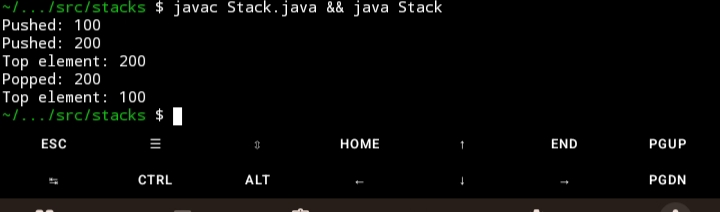
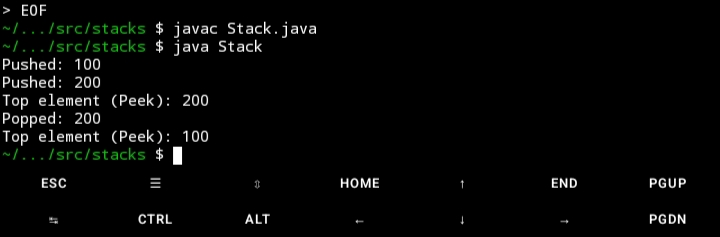
Day 3: Replace with final Stack execution proof (Push, Pop, Peek)

diff --git a/README.md b/README.md
@@ -11,7 +11,7 @@ A systematic implementation of core Data Structures and Algorithms in Java. This
 ## 📅 7-Day Roadmap & Progress
 - [x] Day 1: Arrays - Search, Insertion, Deletion, and Traversal logic. ✅ ![Proof](docs/arrays_run.jpg)
 - [x] Day 2: Singly Linked Lists - Node class, Beginning/End insertion, and Display. ✅ ![Proof](docs/linkedlists_run.jpg)
-- [x] Day 3: Stacks - ✅ ![Proof](docs/stacks_run.jpg)
+- [x] Day 3: Stacks - Implementing LIFO logic using Linked Lists (Push, Pop, Peek). ✅ ![Proof](docs/stacks_run.jpg)
 - [x] Day 4: Queues - ✅ ![Proof](docs/queues_run.jpg)
 - [x] Day 5: Searching algorithms - linear search, binary search. ✅ ![Execution Proof](docs/searching_run.jpg)
              : Sorting Algorithms - Bubble, Selection, Merge, and Quick Sort.
